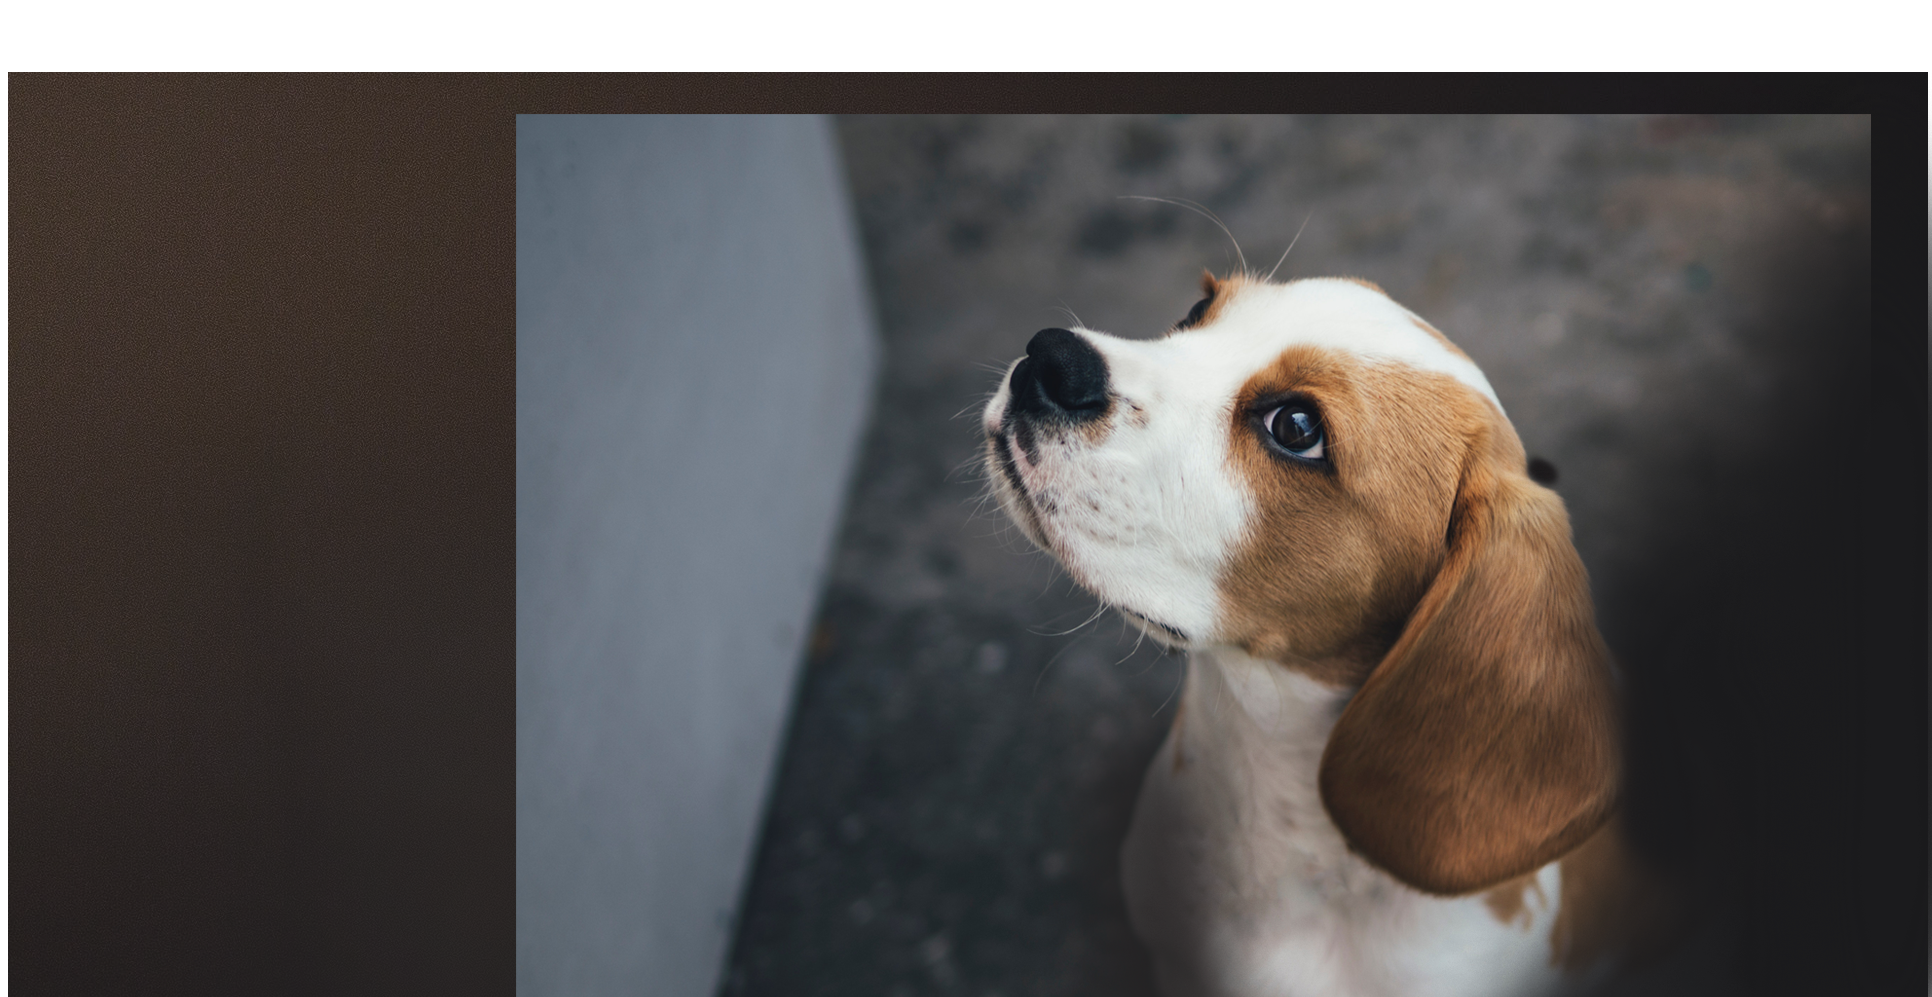
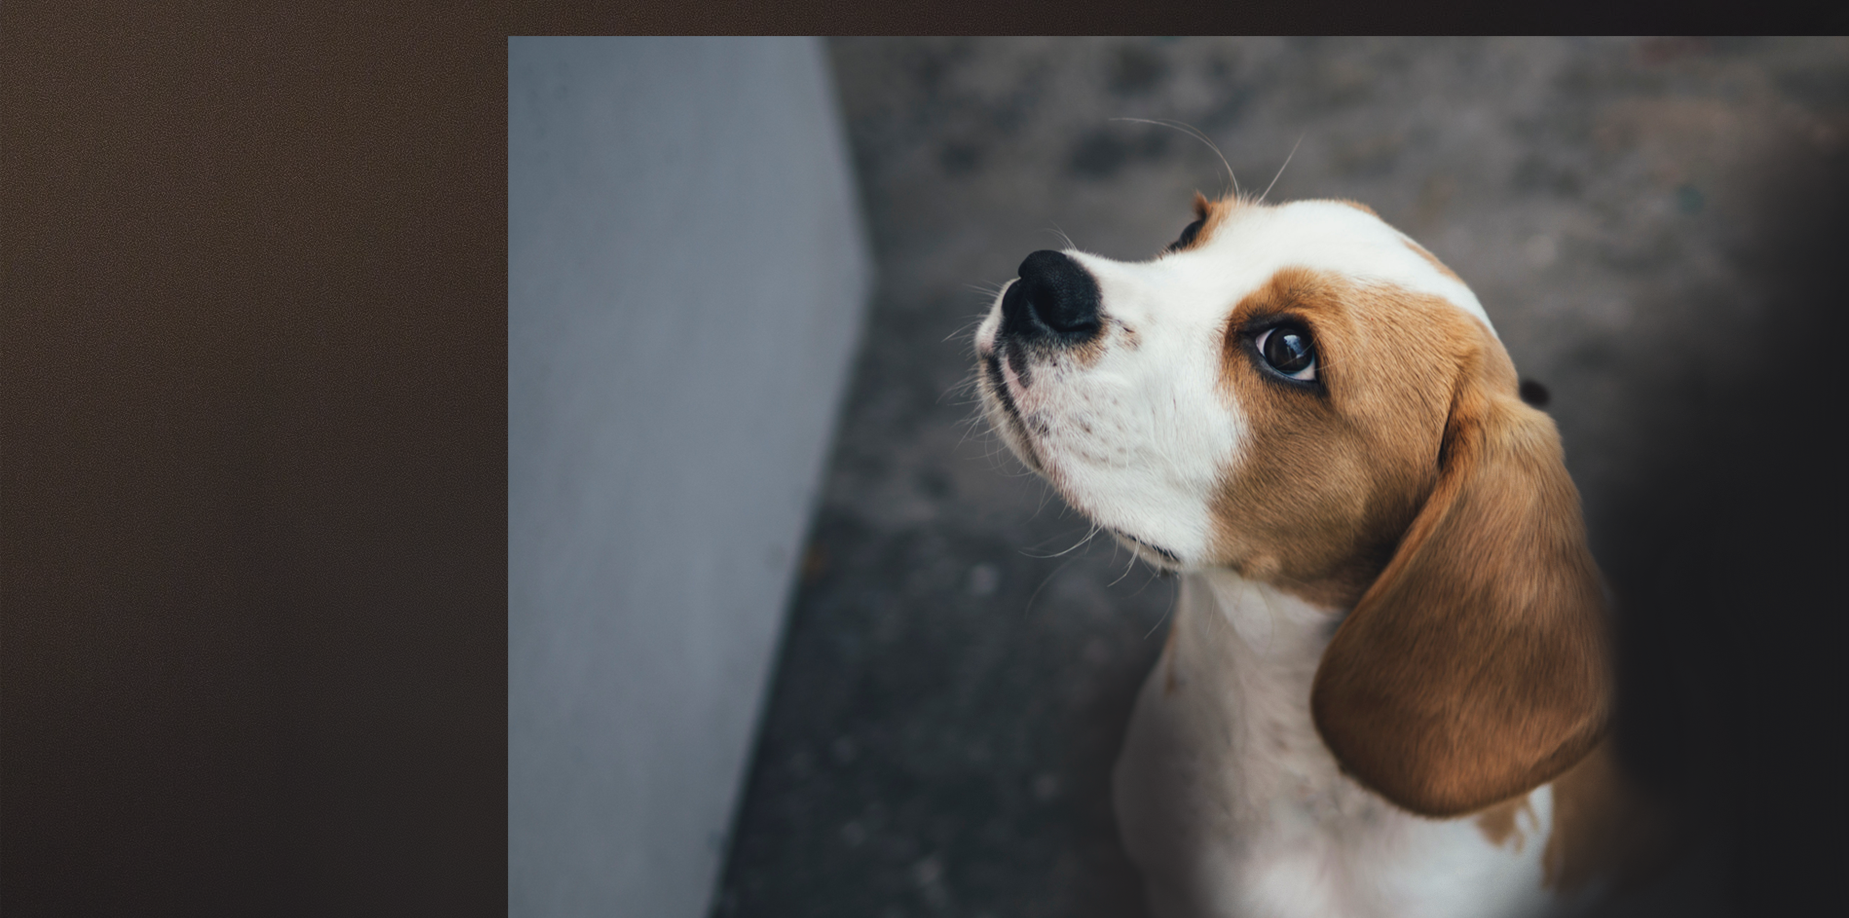
upd for header
поправил фон, но это не финал.
раскидал остальную хрень чуток

diff --git a/Animal_shelter/css/main.css b/Animal_shelter/css/main.css
@@ -16,20 +16,28 @@ body{
     flex-direction: row;
     justify-content: space-between;
 }
+
+/*тут начинается хедер*/
+
 header{
     background: black url(../img/Clip.png) no-repeat;
     color: white;
-    border: 2px solid yellow;
     height: 925px;
+}
+.headtext{
+    margin-top: 53px;
 }
 #logoname{
     color: #F1CDB3;
     font-family: Georgia, 'Times New Roman', Times, serif ;
-    font-size: 32;
+    font-size: 42px;
     font-weight: 400;
+    margin-bottom: 7px;
+    padding-bottom: 0;
 }
 #logotext{
-    font-size: 13;
+    font-size: 17px;
+    margin: 0;
 }
 .navigation{
     padding-top: 75px;
@@ -38,12 +46,16 @@ header{
     display: flex;
     flex-direction: row;
 }
+
+/*стилизация пунктов навигации*/
+
 .link-hover-center a{
     margin-left: 40px;
     padding-bottom: 5px;
     text-align: center;
     text-decoration: none;
     color: white;
+    font-size: 17px;
     display: flex;
     line-height: 1;
     text-decoration: none;
@@ -71,16 +83,23 @@ header{
 .link-hover-center a:focus:after {
     width: 100%;
 }
+
+/* текст хедера */
+
 h1{
     font-family: Georgia, 'Times New Roman', Times, serif ;
-    font-size: 44;
+    font-size: 58px;
     font-weight: 300;
-    letter-spacing: 4px;
-
+    letter-spacing: 2px;
+    padding-bottom: 10px;
+    color: white;
 }
 .text-about{
     display: flex;
     flex-direction: column;
+    margin-top: 200px;
+    font-size: 20px;
+    color: #CDCDCD;
 
 }
 
